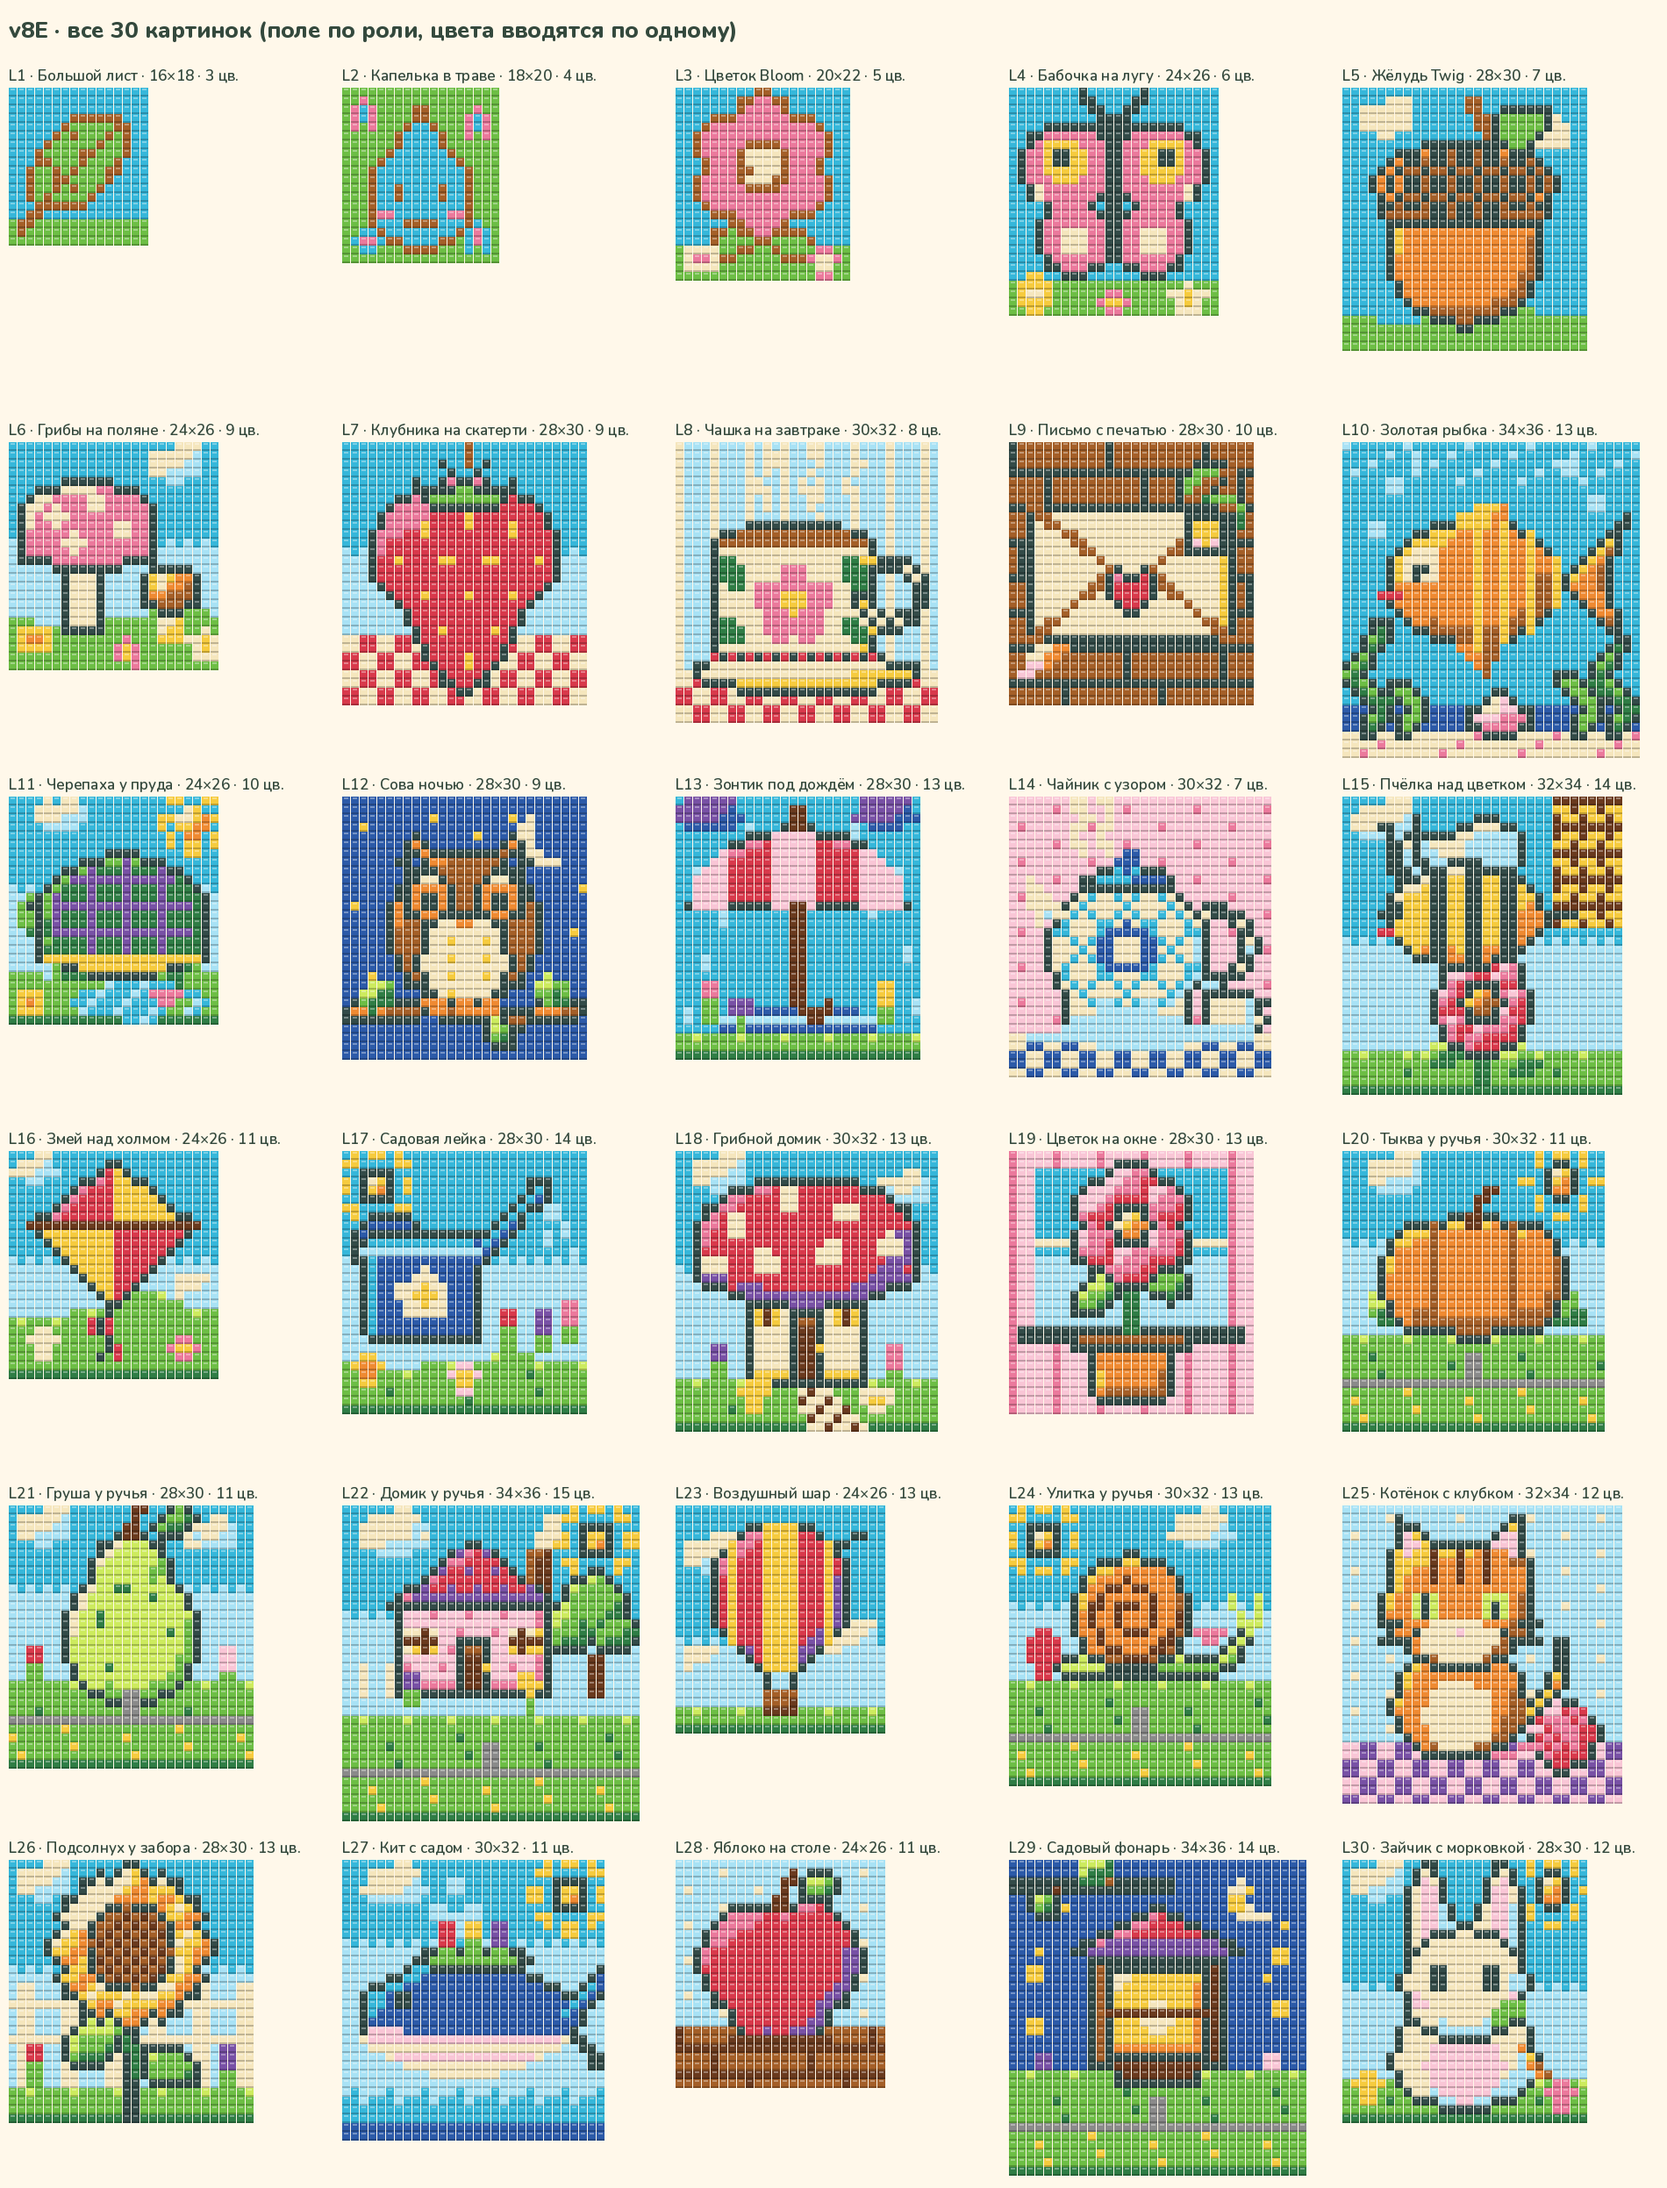
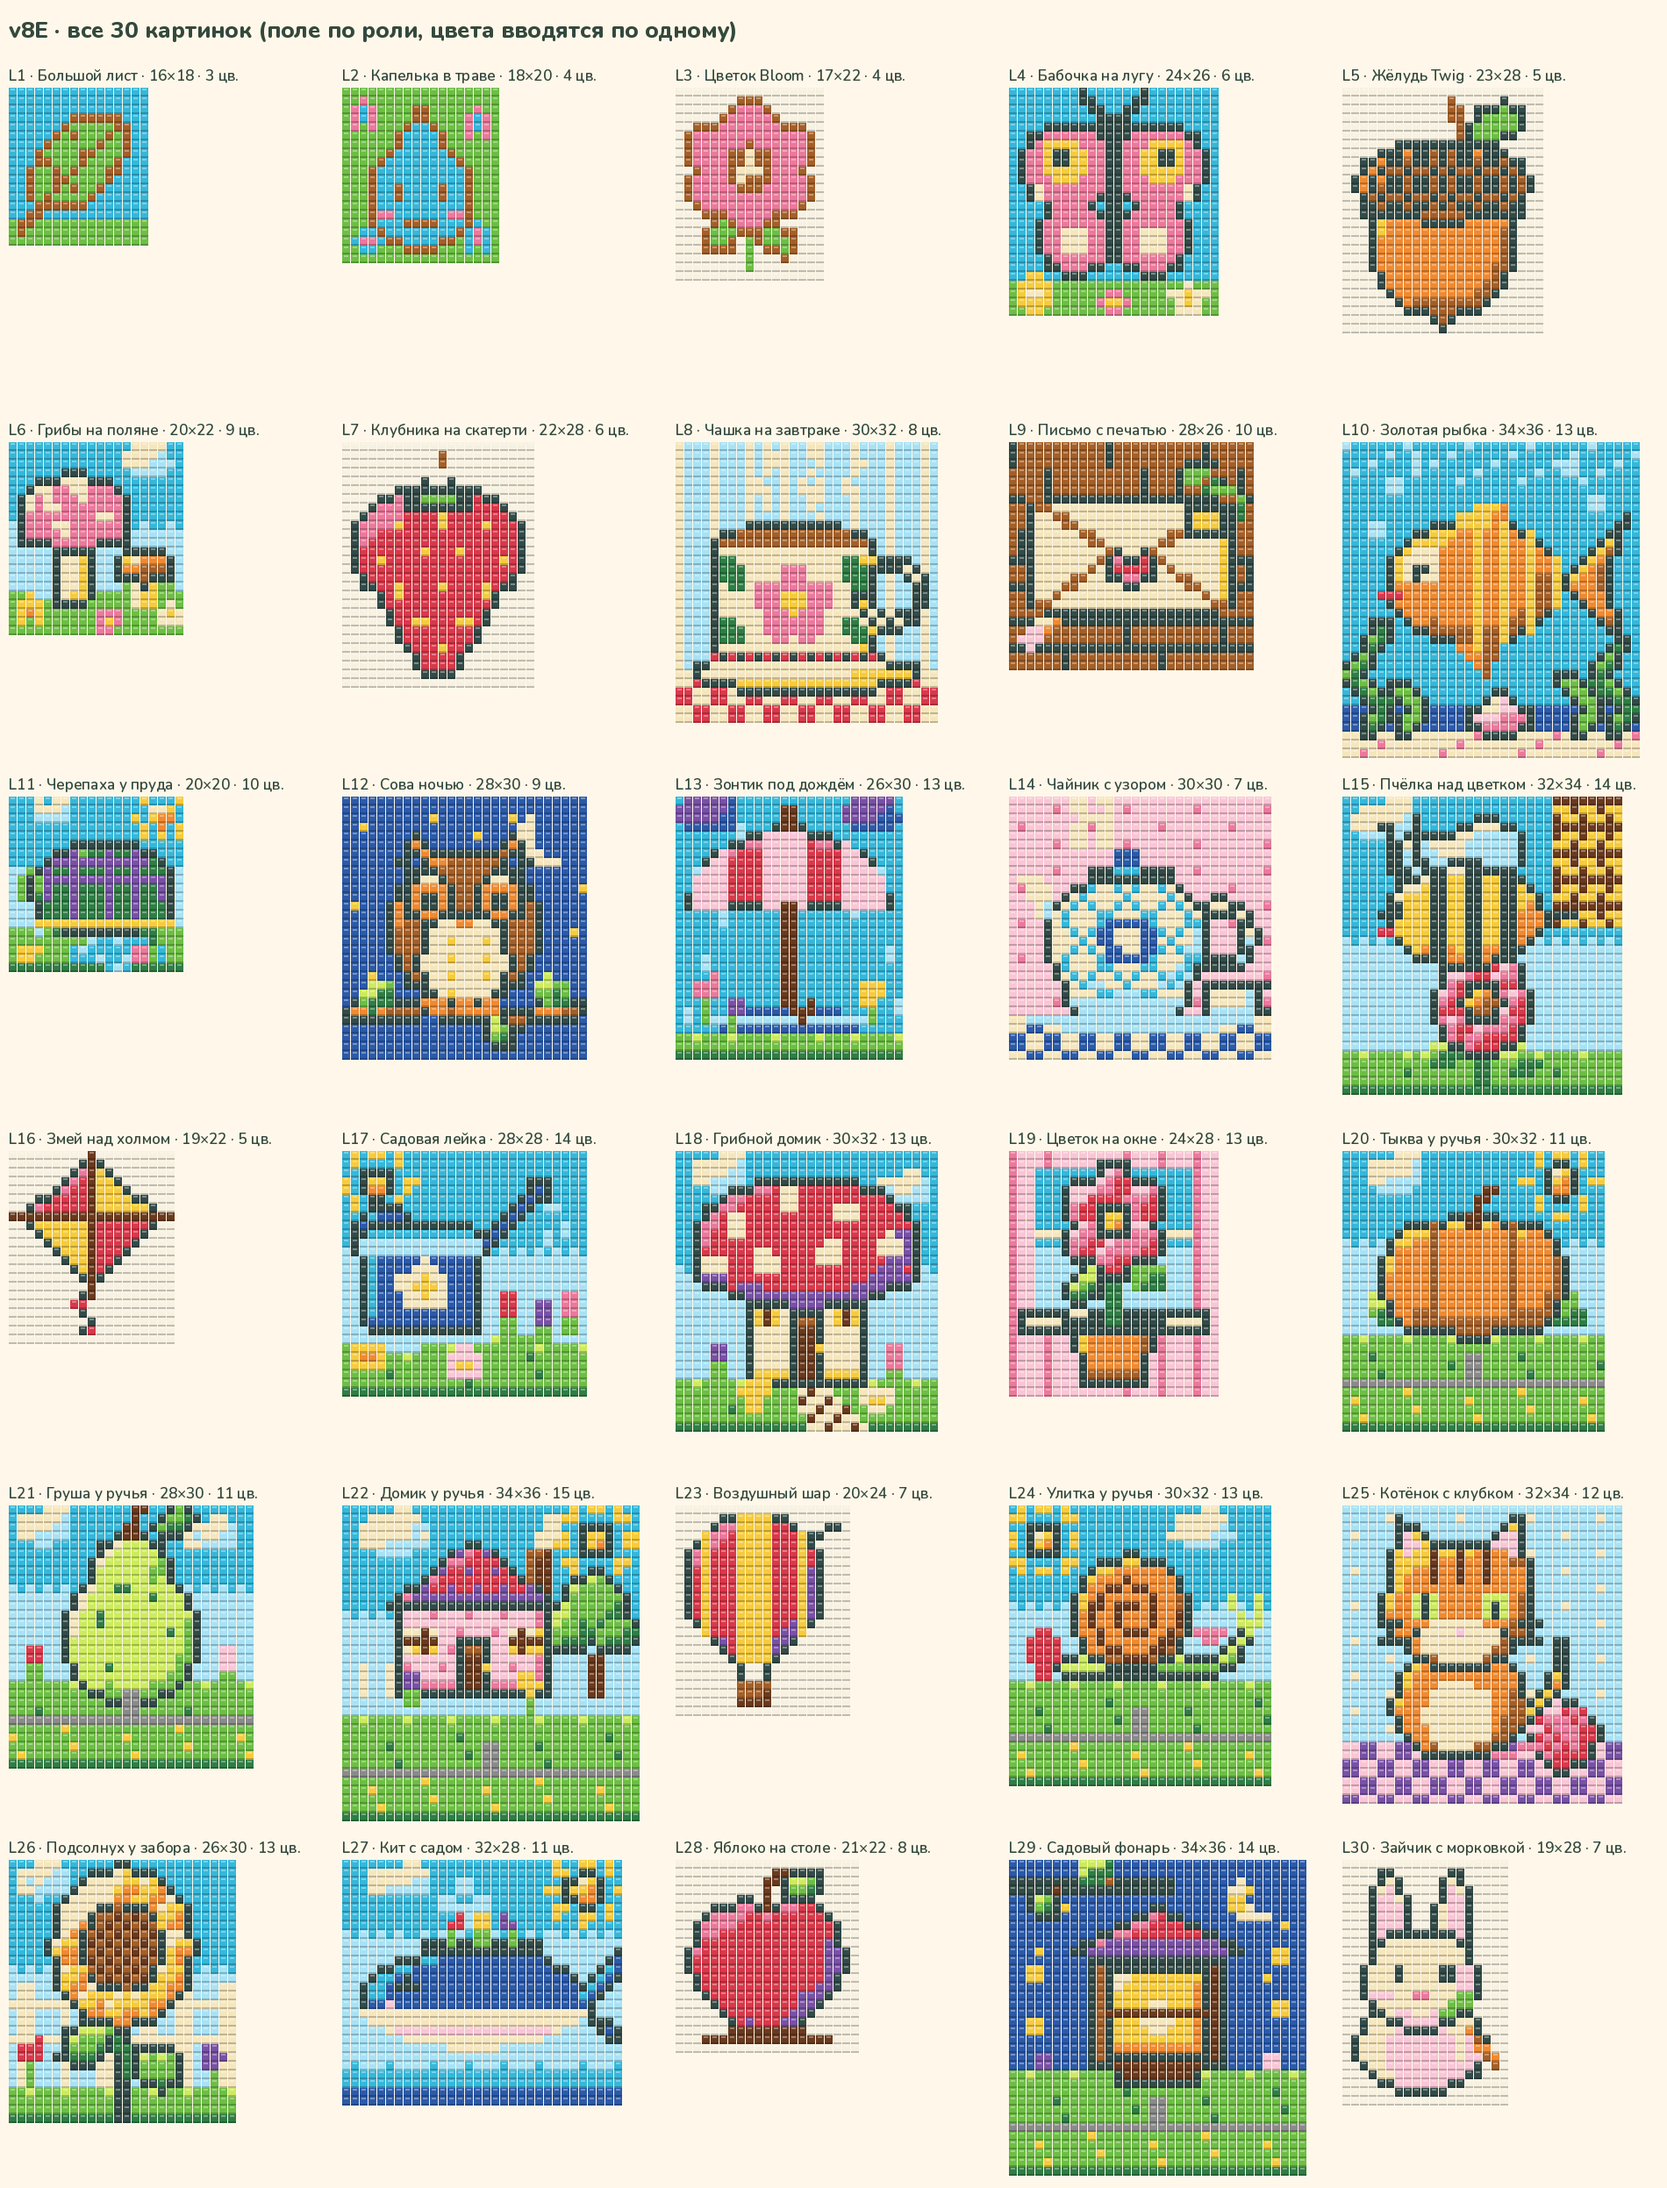
Vary pilot v8E boards and add object-only pictures
Boards no longer all grow: hard levels stay large, while small relief
boards (18x22-22x22) and tall or wide ones come in between, as in Colony
Flow's first 30. Seven pictures (L3, L5, L7, L16, L23, L28, L30) show only
the object on a board cropped to it, with open ground round it.

Claude-Session: https://claude.ai/code/session_015MFFqpKVAaPopMAf2NPWry

diff --git a/product/previews/gameplay-pilot-v8e/README.md b/product/previews/gameplay-pilot-v8e/README.md
@@ -12,13 +12,11 @@
   - Bloom: лепесток, слива, ягода, румянец.
   - Drop: вода, жемчуг, глубина, небо.
   - Twig: янтарь, земля, тыква, кора.
-- **Поле по роли:**
-  - обучение L1–L4 — 16×18 … 24×26;
-  - передышка — 24×26;
-  - обычный — 28×30;
-  - «с задачей» — 30×32;
-  - Hard — 32×34;
-  - Super Hard — 34×36.
+- **Поле не растёт сплошняком** (владелец, 23.10, по Colony Flow: в их первых 30 уровнях поля от 18×21 до 38×28, есть вытянутые).
+  - Сложные уровни большие: Hard 32×34, Super Hard 34×36.
+  - Между ними встречаются маленькие передышки: 18×22, 20×22, 20×20, 22×22.
+  - Есть вытянутые поля: 24×28, 28×26, 32×28.
+- **Картинки «только предмет», без фона** — 7 из 30: L3, L5, L7, L16, L23, L28, L30. Поле обрезано по предмету, вокруг одна клетка открытой земли. У Colony Flow так нарисована почти половина обычных уровней в первых 30, дальше около 5%.
 - **Длина раунда (цель):** обычный 1–1,5 мин, Hard ~2,5 мин, Super Hard 3,5–4 мин.
 - **×2:** платный, как у Colony Flow.
 - **Картинки:**
